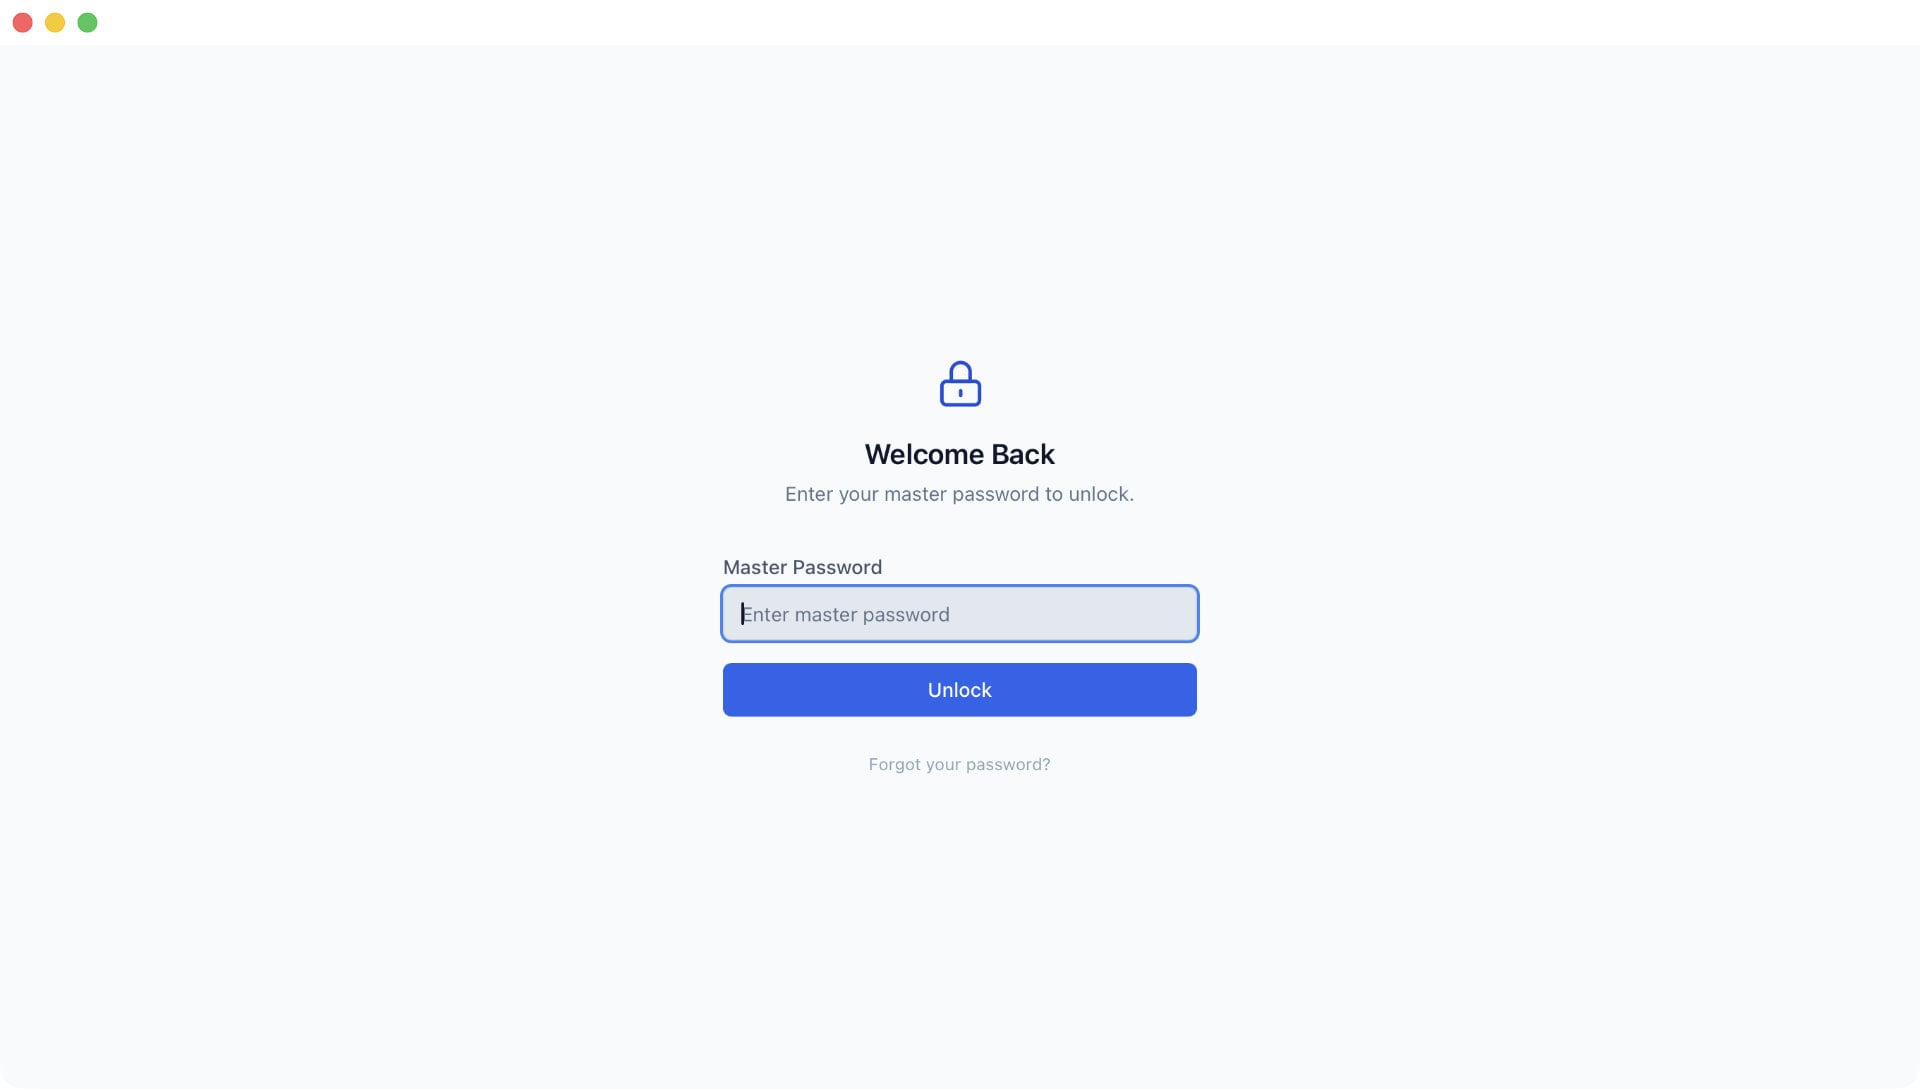
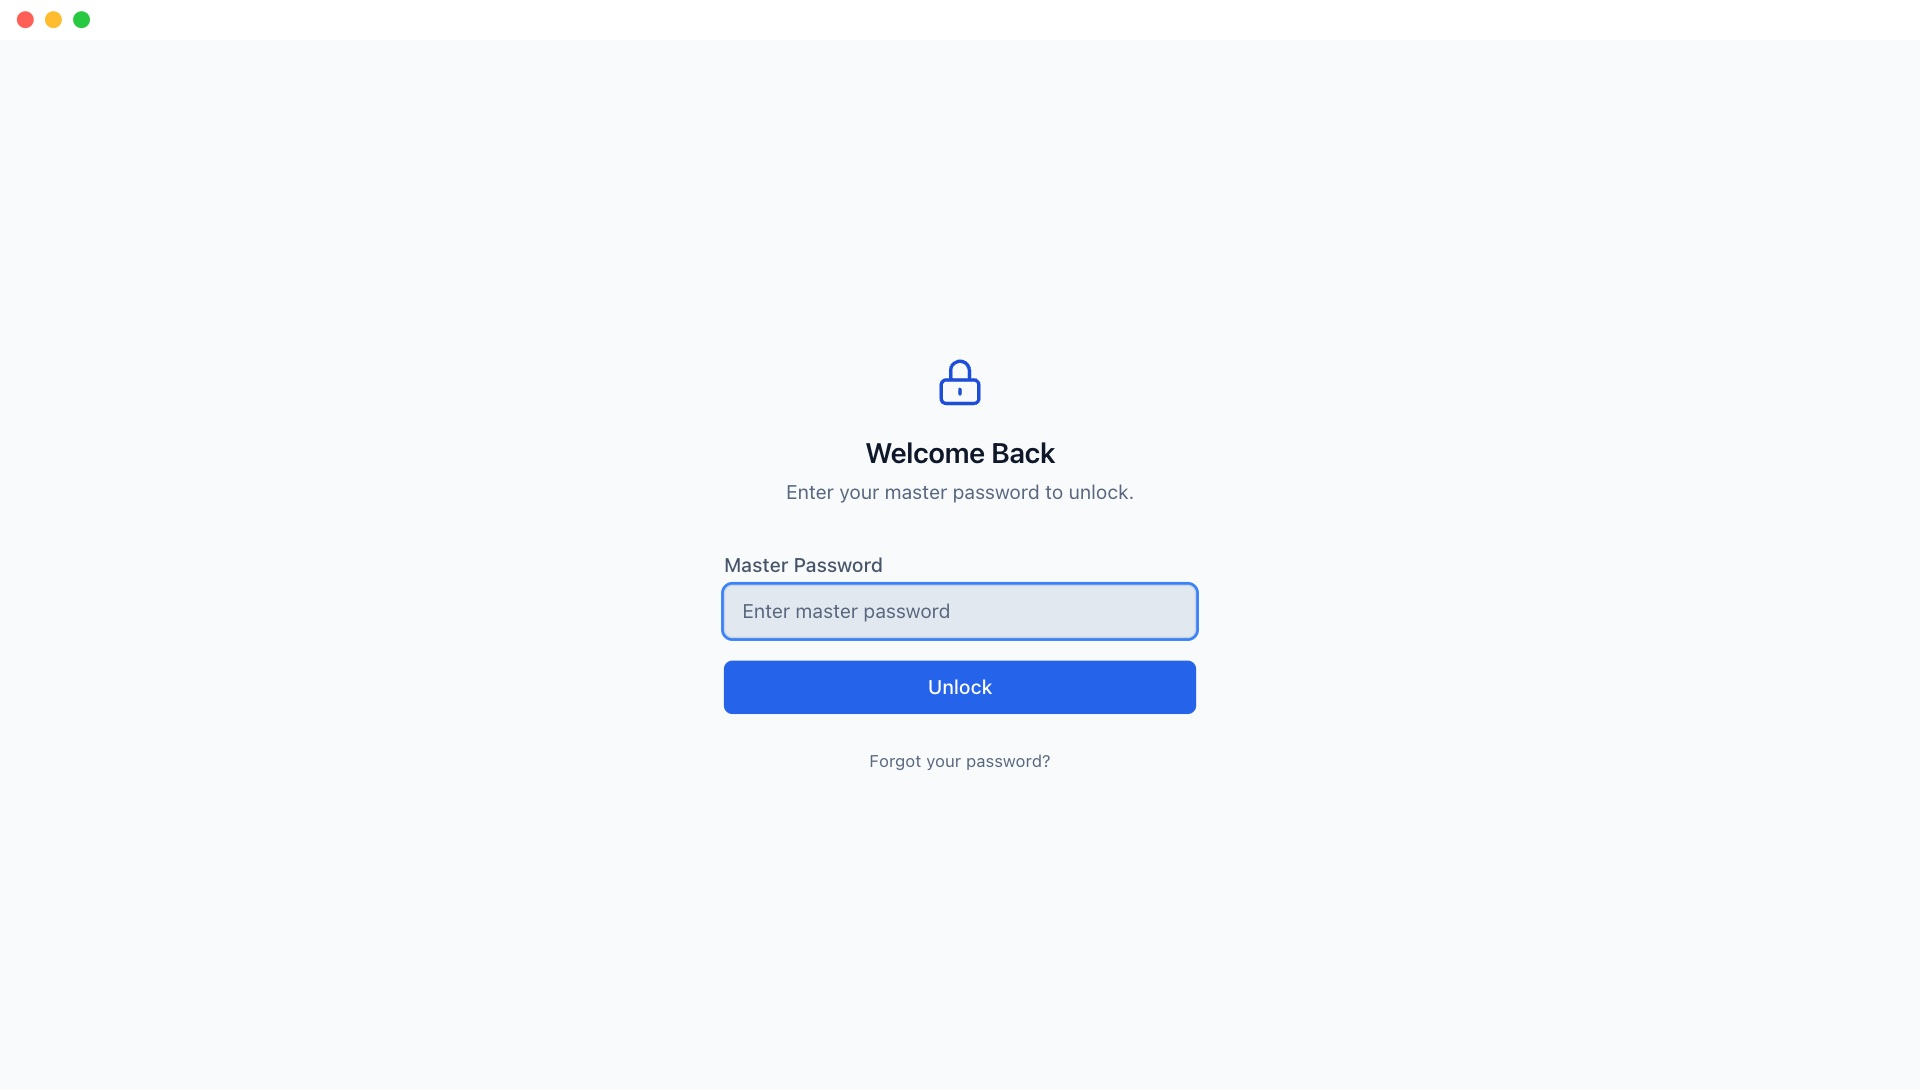
Refresh the README and its screenshots
The screenshots dated from v0.0.5: the sidebar, row actions, repository stats,
snapshot and plan lists, and above all the plan editor have all changed since.
They are re-rendered from the current UI (light theme, 1366x800 window, sample
data in place of real repositories) and keep their file names, so the README
table is unchanged. The plan editor now shows the tabbed editor with the file
tree.

The feature list now covers the file-tree plan editor, path-list and exclude
files, the CLI export, retention (including the Settings default and deferred
pruning), completed-with-warnings backups, notifications, webhooks and the
Activity panel.

diff --git a/README.md b/README.md
@@ -21,9 +21,11 @@ A cross-platform desktop client for [Restic](https://restic.net/), the fast and 
 - **Read-only repositories** — mark a repository backed by a genuinely read-only filesystem or mount as read-only; the app opens it with restic's own `--no-lock` for every read, and refuses writes (backup, prune, tag, delete, retention) outright rather than relying on restic to reject them
 - **Launch at login** — optionally have the OS start the app automatically at login (uses the native macOS LaunchAgent / Windows Registry Run entry / Linux XDG `.desktop` mechanism), gated on the system tray toggle since without the tray, closing the window quits the app
 - **Backend credentials** — optionally store credentials (e.g. S3 access keys, native B2 application keys, REST server username/password) per remote repository, encrypted with the master password; left blank, restic falls back to your system's own credential chain (`~/.aws/credentials`, an IAM role, etc.) exactly as before. Note: restic's own documentation recommends B2's S3-compatible API over its native backend for better error handling
-- **Backups** — define backup plans with source paths, tags, exclude patterns, and retention policies; run plans on demand or on a schedule
+- **Backup plans** — a tabbed editor (Files, Retention, Advanced, Tags) built around a file tree. It starts at the whole filesystem: click a folder to back it up, click inside it to leave something out or bring it back, with undo. Every row shows whether restic would include it and which rule decided, using a port of restic's own matching rules that is tested against the real restic. Plans can also use path-list files (`--files-from`), exclude-pattern files, `--exclude-if-present` markers and cache-directory exclusion, and "Use with restic CLI…" turns a plan into the exclude files and `restic backup` command that reproduce it by hand
+- **Retention** — keep-last/daily/weekly/monthly/yearly rules per plan, applied after each backup; an optional default policy in Settings pre-fills new plans, and a per-repository "prune after retention" switch leaves pruning to an explicit prune where deleting data costs money
+- **Run on demand or on a schedule** — start a plan from the plan list, or attach it to a schedule (below)
 - **Schedules** — attach backup plans to a cron schedule; runs happen in the background while the app is unlocked — with the system tray enabled, that includes while the window is closed
-- **Snapshots** — browse all snapshots in a repository, add or remove tags, and delete with optional pruning
+- **Snapshots** — browse all snapshots in a repository, add or remove tags, and delete one or several at once with optional pruning
 - **Snapshot diff** — compare any two snapshots to see exactly what was added, removed, or modified, with per-entry restore directly from the diff view
 - **File browser** — navigate the file tree inside any snapshot and restore individual files, directories, or entire snapshots
 - **File search** — search by name or path across all files in a single indexed snapshot, or across every indexed snapshot in a repository at once; clicking a result opens the file browser at that location
@@ -31,6 +33,9 @@ A cross-platform desktop client for [Restic](https://restic.net/), the fast and 
 - **System tray** — optionally minimize to the system tray so scheduled backups continue running while the window is closed
 - **Themes** — dark, light, and system appearance modes
 - **Logs** — persistent history of every backup run with duration, file counts, bytes added, and snapshot ID
+- **Warnings, not false failures** — a backup that saved its snapshot but couldn't read some files (restic exit code 3) is recorded as completed with warnings, listing the unreadable files and any source folder that no longer exists
+- **Notifications and webhooks** — desktop notifications for backup start, success, warnings and failure (each can be muted), plus per-plan webhooks (generic JSON, Discord, Slack, Microsoft Teams, or your own template)
+- **Activity panel** — a live view of background work: scheduled backups, indexing, stats refreshes, and mirrors
 - **Import / Export** — export all repositories, backup plans, and schedules to a passphrase-protected file for backup or migration to another machine; import that file back, or import an existing [Backrest](https://github.com/garethgeorge/backrest) `config.json` to bring over its repos and plans
 
 ## Download
